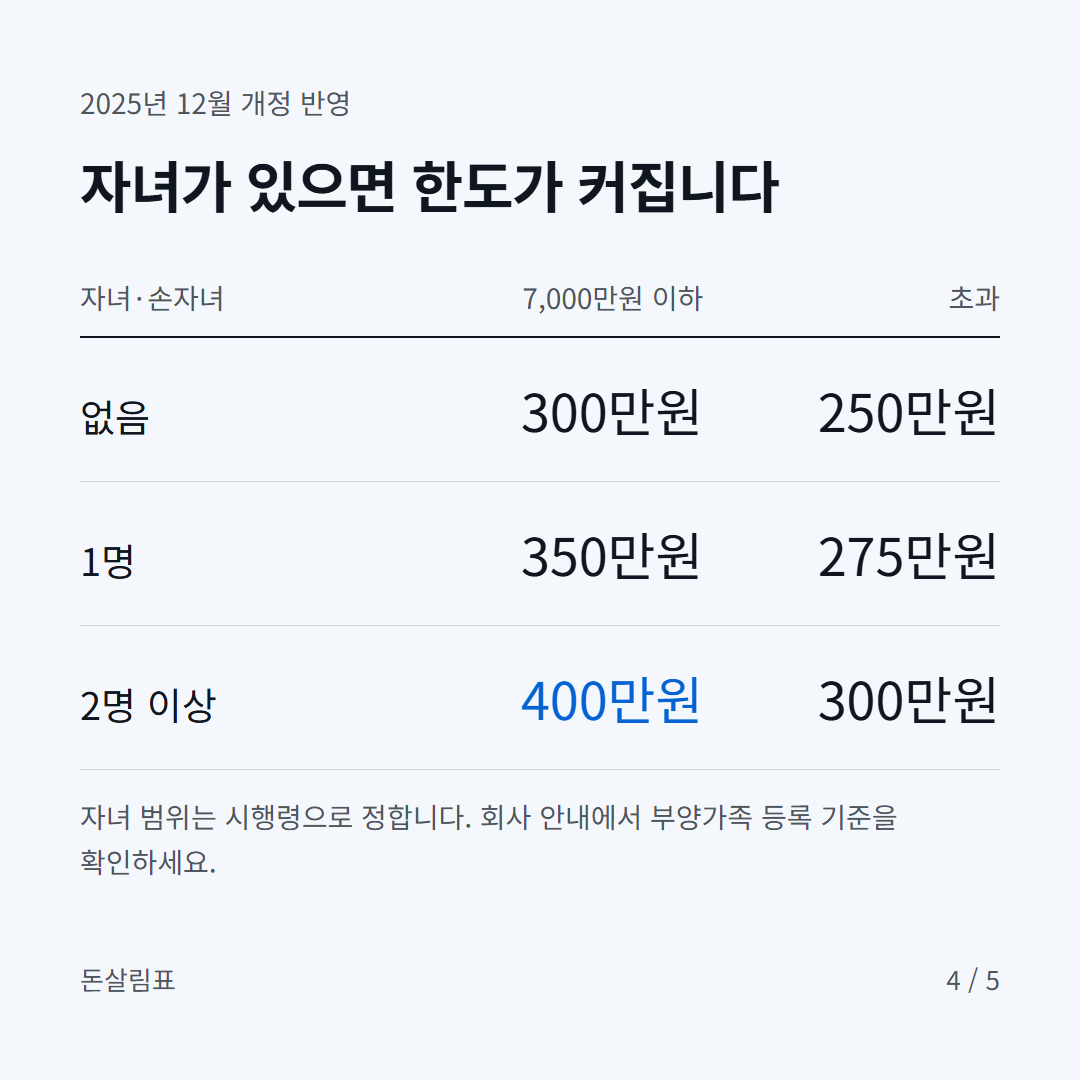
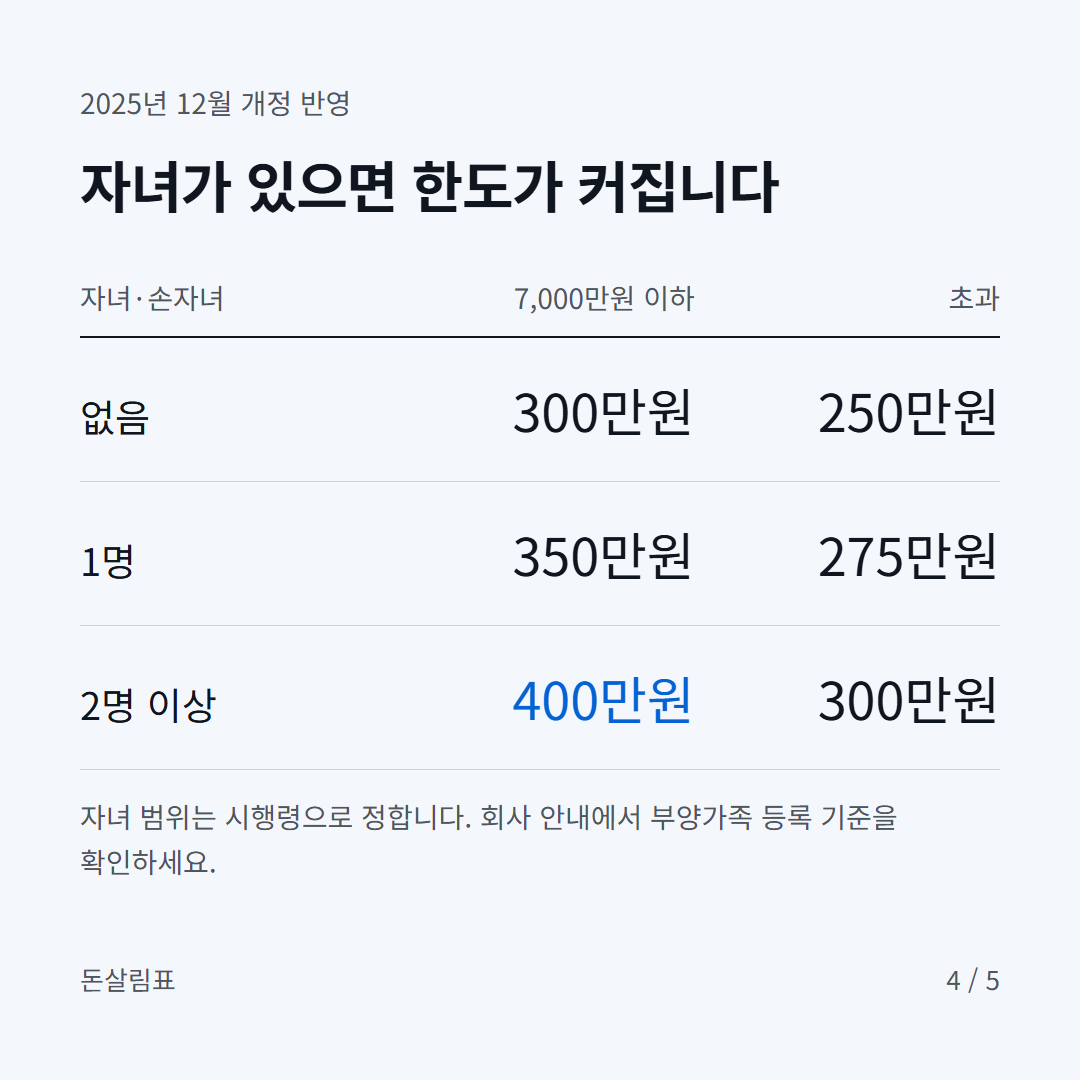
feat: 08·13·14·15편 카드뉴스 20장과 Canva 표지 4장, 한 자리 번호 파일명 수정
08편 카드를 8_카드뉴스_1.png로 만들었더니 .gitignore(assets/naver_img/*.png, 두 자리 번호만 예외)에 걸려
커밋되지 않았다. 커밋됐더라도 GitHub 공개 URL이 열리지 않아 게시가 막혔을 것이고, 렌더러와 resolver 둘 다
한 자리 번호를 그대로 썼다(예전 썸네일 resolver도 같은 결함이라 1~9편은 애초에 게시된 적이 없다).
렌더러 출력과 resolve_card_news를 08_처럼 두 자리로 맞췄고, 한 자리 번호에서 두 자리 파일만 해석하는
테스트를 추가했다.
표지는 Canva 돼지 컨셉이며 그림 속 제목·말풍선·하단 문구가 spec의 _cover_text와 같은지 눈으로 대조했다
(네 장 일치). AI 그림이라 왼쪽 아래 'AI 활용' 표시를 렌더러가 입힌다. 열 간격 수정 뒤 18편 4번
카드도 다시 렌더했다. 큐의 번호필요 글 5개(08·13·14·15·18)가 모두 5장씩 해석된다.

diff --git a/sns_harness/src/sns_harness/thumbnails.py b/sns_harness/src/sns_harness/thumbnails.py
@@ -98,7 +98,9 @@ def resolve_card_news(number: int, directory: Path) -> CardNewsResolution:
         raise ThumbnailError("게시번호는 1 이상의 숫자여야 합니다.")
     if not directory.is_dir():
         raise ThumbnailError(f"카드뉴스 폴더가 없습니다: {directory}")
-    pattern = re.compile(rf"^{number}_카드뉴스_(\d+)\.(png|jpe?g)$", re.IGNORECASE)
+    # 두 자리로 맞춘다(08_…). .gitignore가 assets/naver_img/*.png를 막고 두 자리 번호만
+    # 예외로 풀어서, 8_카드뉴스_1.png는 커밋되지 않아 GitHub 공개 URL이 열리지 않는다.
+    pattern = re.compile(rf"^{number:02d}_카드뉴스_(\d+)\.(png|jpe?g)$", re.IGNORECASE)
     found: dict[int, Path] = {}
     for path in sorted(directory.iterdir()):
         match = pattern.match(path.name) if path.is_file() else None

diff --git a/sns_harness/tests/test_card_news.py b/sns_harness/tests/test_card_news.py
@@ -22,6 +22,14 @@ def test_cards_resolve_in_slide_order_and_ignore_other_posts(tmp_path: Path) -> 
     assert result.filenames == ("18_카드뉴스_1.png", "18_카드뉴스_2.png", "18_카드뉴스_3.jpg")
 
 
+def test_single_digit_post_numbers_use_two_digit_files(tmp_path: Path) -> None:
+    # `8_카드뉴스_1.png`는 .gitignore에 걸려 커밋되지 않으므로 해석하지 않는다
+    touch(tmp_path, "08_카드뉴스_1.png", "08_카드뉴스_2.png",
+          "8_카드뉴스_1.png", "8_카드뉴스_2.png")
+    result = resolve_card_news(8, tmp_path)
+    assert result.filenames == ("08_카드뉴스_1.png", "08_카드뉴스_2.png")
+
+
 def test_missing_cards_say_missing(tmp_path: Path) -> None:
     touch(tmp_path, "18_썸네일.png")
     with pytest.raises(ThumbnailError, match="없습니다"):

diff --git a/make_card_news.py b/make_card_news.py
@@ -124,7 +124,8 @@ def render(spec: dict, out_dir: Path, base: Path, check: bool = False) -> list[P
             if overflow > 0:
                 browser.close()
                 raise SystemExit(f"{i}번 슬라이드가 {overflow}px 넘칩니다. 글을 줄이세요.")
-            out = out_dir / f"{spec['number']}_카드뉴스_{i}.png"
+            # 두 자리: .gitignore가 두 자리 번호의 png만 추적한다(resolve_card_news도 같은 규칙)
+            out = out_dir / f"{spec['number']:02d}_카드뉴스_{i}.png"
             element.screenshot(path=str(out))
             outputs.append(out)
         browser.close()

diff --git a/content/naver/cardnews/README.md b/content/naver/cardnews/README.md
@@ -4,10 +4,10 @@
 
 | 글 | 큐 제목 | spec | 표지 파일 | 표지 문구(`_cover_text`) |
 |---|---|---|---|---|
-| 08 | 근로장려금 신청기간 지났어도 11월 30일까지 받는 법 | `08.json` | `08_cover_canva.png` 필요 | 근로장려금 기한후 신청은 11월 30일까지 가능합니다 |
-| 13 | 연말정산 월세 세액공제 조건과 서류 | `13.json` | `13_cover_canva.png` 필요 | 월세 세액공제는 연 1,000만원까지 계산합니다 |
-| 14 | 연말정산 중도퇴사자 환급받는 두 가지 경로 | `14.json` | `14_cover_canva.png` 필요 | 서류를 안 냈다면 퇴사자는 표준세액공제 13만원만 받습니다 |
-| 15 | 2026 연말정산 의료비 (큐에 같은 제목 2행) | `15.json` | `15_cover_canva.png` 필요 | 의료비 공제는 총급여의 3%를 넘긴 금액부터입니다 |
+| 08 | 근로장려금 신청기간 지났어도 11월 30일까지 받는 법 | `08.json` | `08_cover_canva.png` 완성 | 근로장려금 기한후 신청은 11월 30일까지 가능합니다 |
+| 13 | 연말정산 월세 세액공제 조건과 서류 | `13.json` | `13_cover_canva.png` 완성 | 월세 세액공제는 연 1,000만원까지 계산합니다 |
+| 14 | 연말정산 중도퇴사자 환급받는 두 가지 경로 | `14.json` | `14_cover_canva.png` 완성 | 서류를 안 냈다면 퇴사자는 표준세액공제 13만원만 받습니다 |
+| 15 | 2026 연말정산 의료비 (큐에 같은 제목 2행) | `15.json` | `15_cover_canva.png` 완성 | 의료비 공제는 총급여의 3%를 넘긴 금액부터입니다 |
 | 18 | 2026 연말정산 소득공제 구간 | `18.json` | 완성 | 카드 공제는 총급여 25%를 넘긴 금액부터 시작합니다 |
 
 ## 만드는 순서
